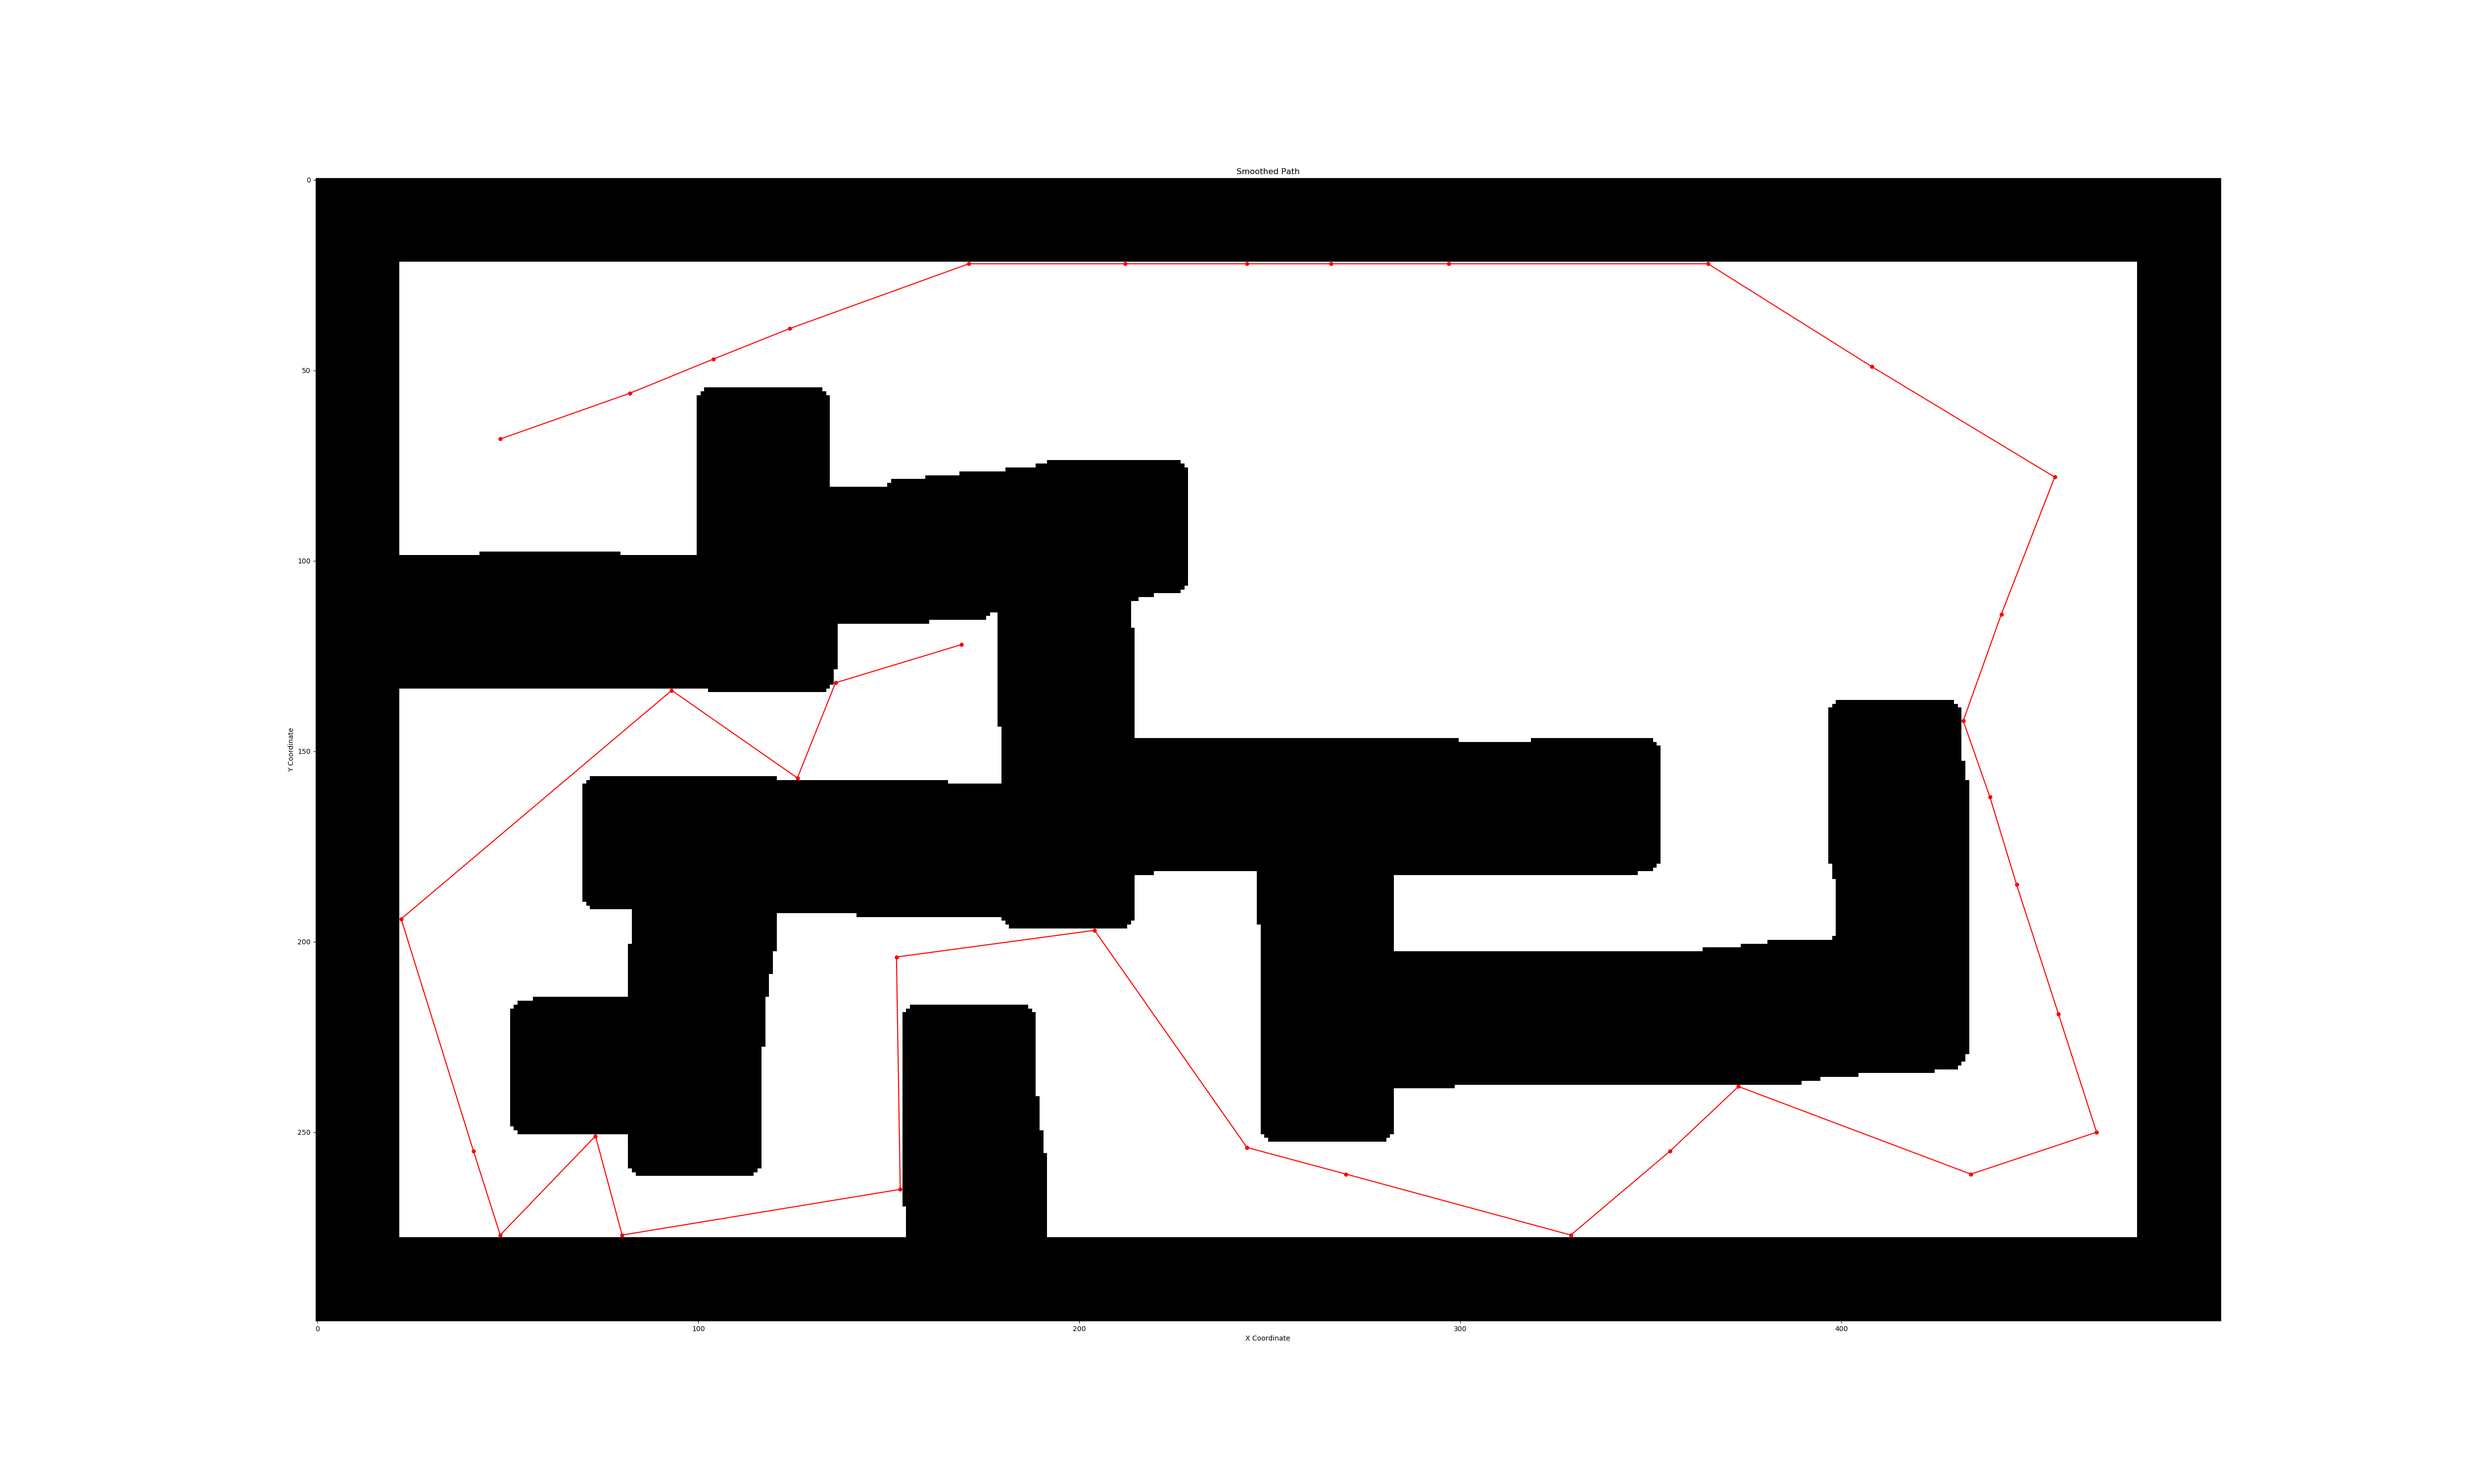
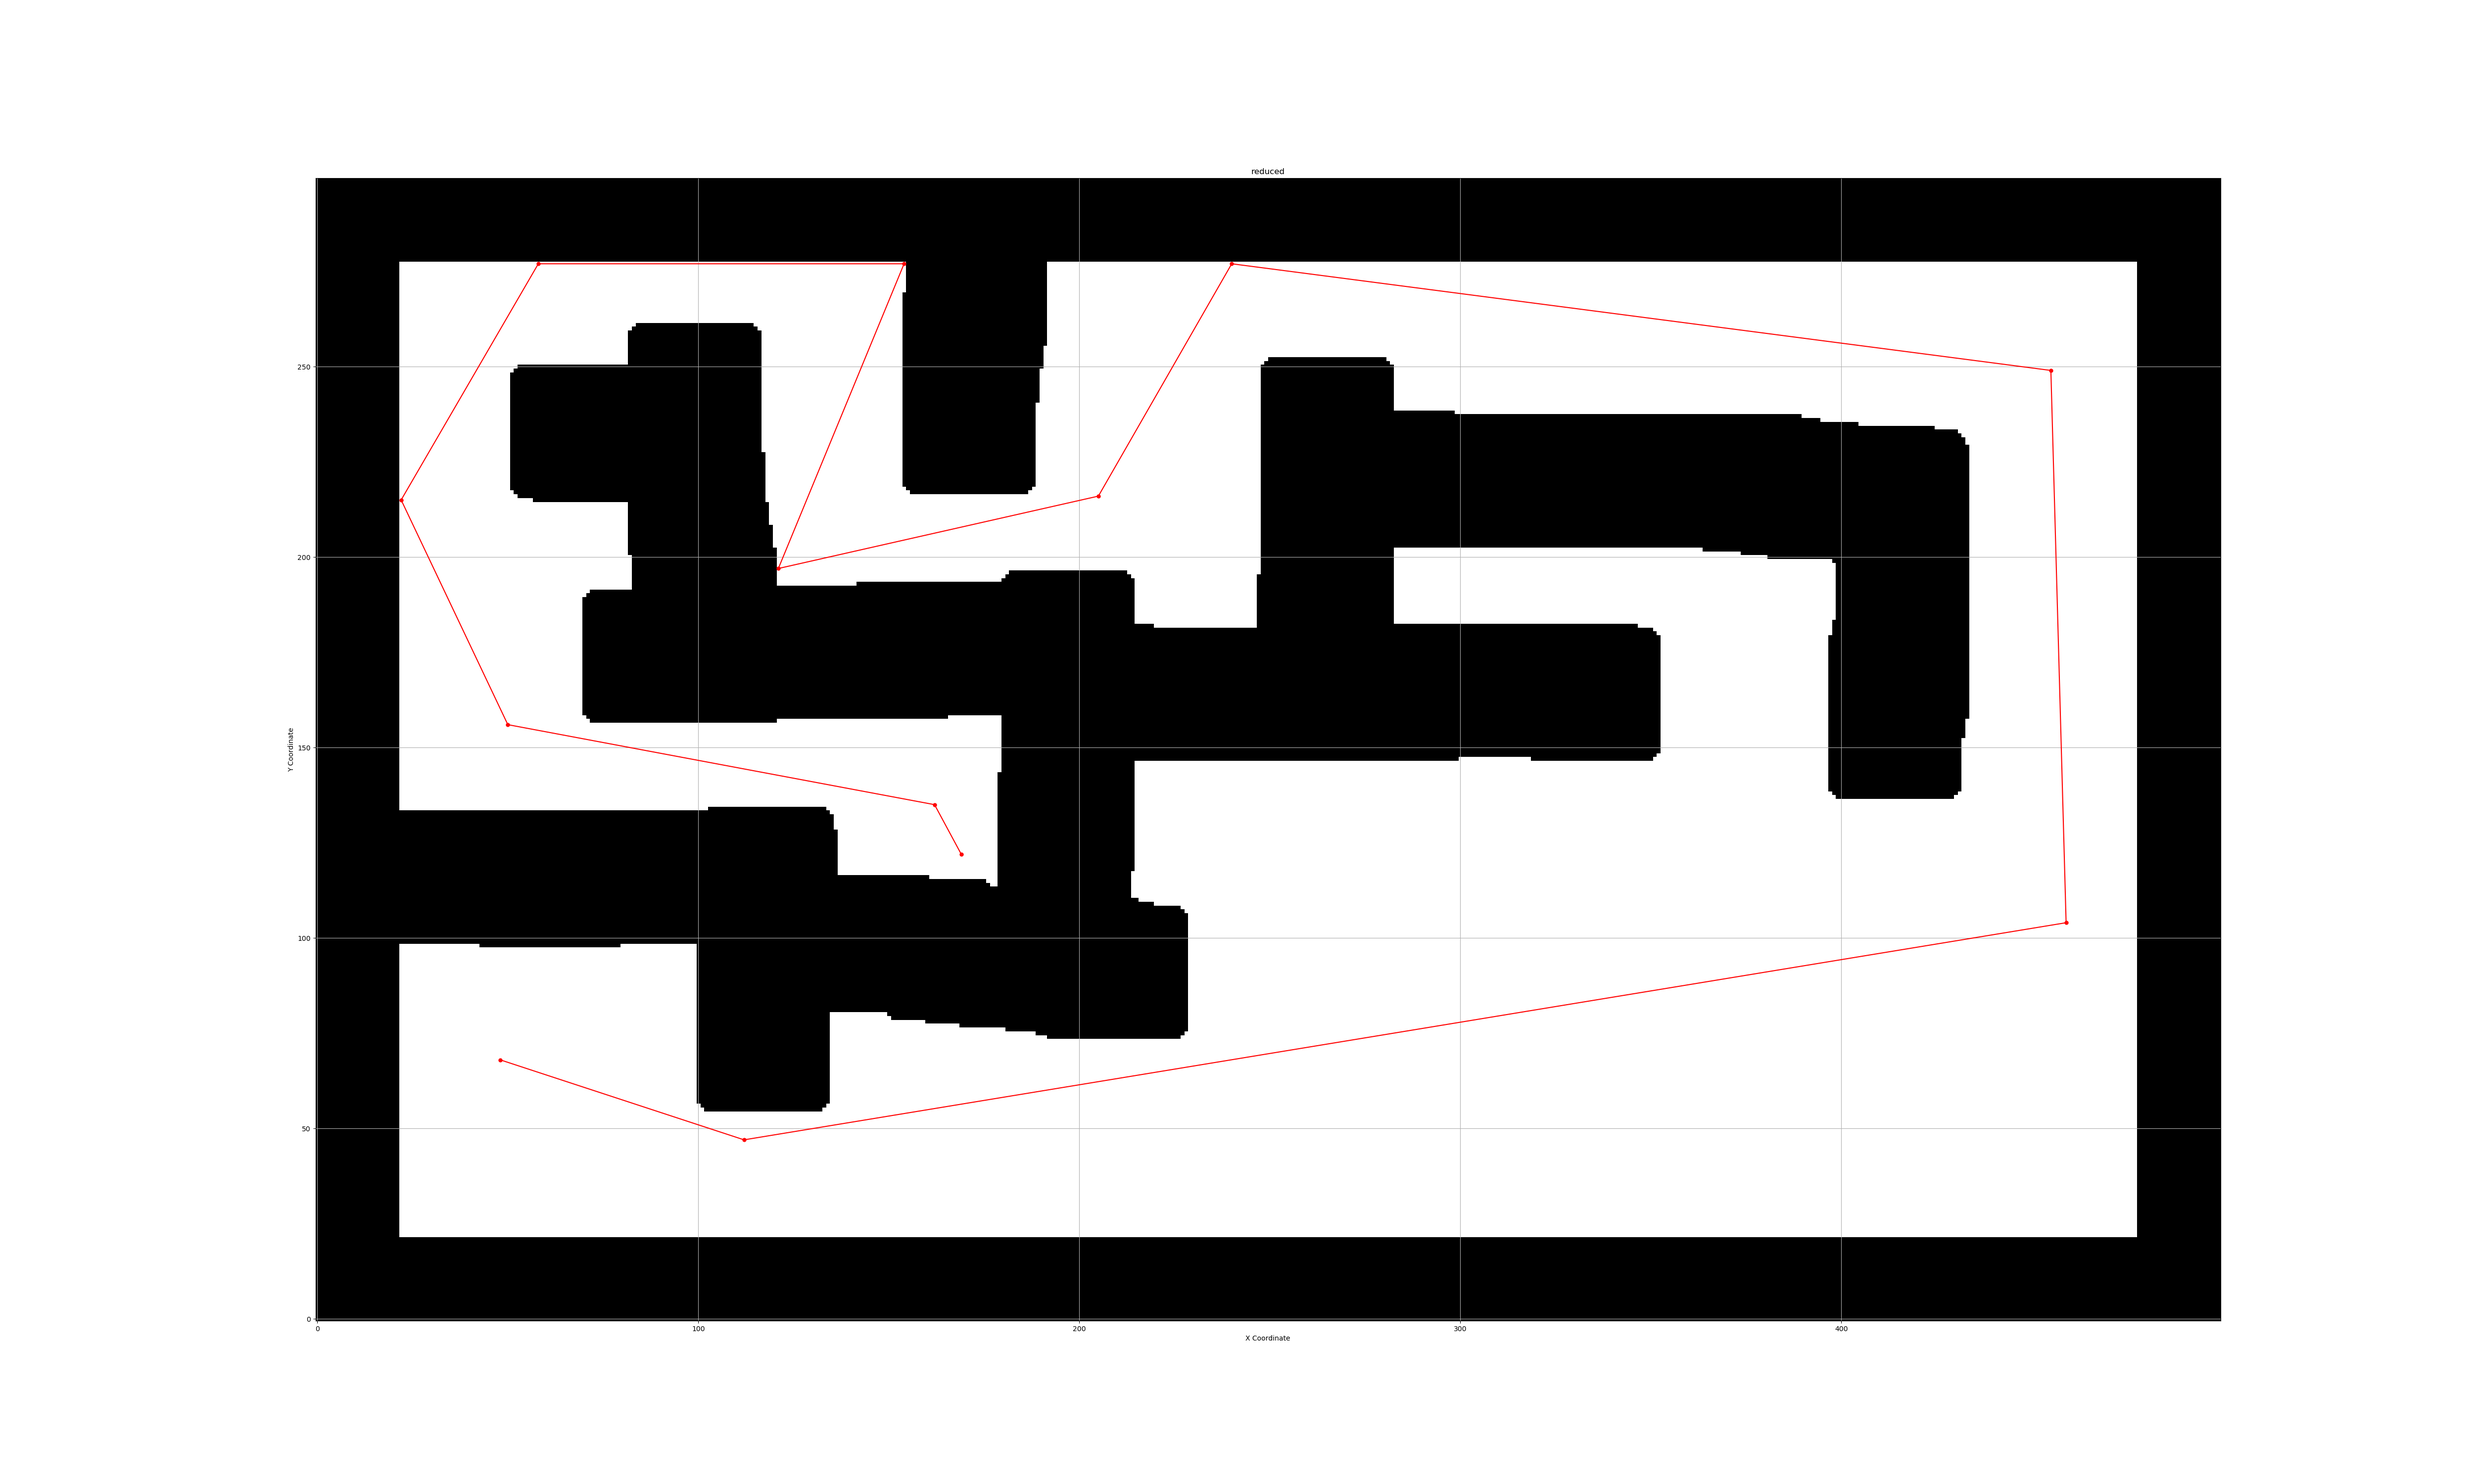
Fixed to work offline + added results

Changed region(s): [[0.156, 0.155, 0.8112, 0.837]]

diff --git a/src/graph_based/ray_caster.py b/src/graph_based/ray_caster.py
@@ -40,7 +40,7 @@ target_pos     = [0,0]
 robot_pos      = [0,0]
 visited_robot  = np.empty(0,dtype=object)
 visited_target = np.empty(0,dtype=object)
-
+coverage = 0
 
 
 grid         = np.zeros(grid_size)
@@ -312,7 +312,7 @@ def split_edge(graph,new_node,x,y):
 # Ray casting from parent node and create childs and directed edges
 def ray_casting_robot(x,y,parent):
 
-    global path_found, visited_robot, robot_graph, grid, grid_edge_id, target_graph
+    global path_found, visited_robot, robot_graph, grid, grid_edge_id, target_graph,coverage
     child_id = 1
     edge_name = ""
 
@@ -342,7 +342,7 @@ def ray_casting_robot(x,y,parent):
         # Propagates ray until 1. Ray hits wall 2. Ray hits another ray 3. Robot Ray and Goal ray are connected (path found)
         while not stop_beam and not path_found:
             dis += 1
-
+            coverage += 1
             beam_x = int(math.ceil(x + dis * np.cos(angle_rad)))
             beam_y = int(math.ceil(y + dis * np.sin(angle_rad)))
 
@@ -437,7 +437,7 @@ def ray_casting_robot(x,y,parent):
 # Ray casting from parent node and create childs and directed edges
 def ray_casting_target(x,y,parent):
 
-    global path_found, visited_target, target_graph, grid, grid_edge_id, robot_graph
+    global path_found, visited_target, target_graph, grid, grid_edge_id, robot_graph,coverage
 
 
     child_id = 1
@@ -470,7 +470,7 @@ def ray_casting_target(x,y,parent):
         # Propagates ray until 1. Ray hits wall 2. Ray hits another ray 3. Robot Ray and Goal ray are connected (path found)
         while not stop_beam and not path_found:
             dis += 1
-
+            coverage += 1
             beam_x = int(math.ceil(x + dis * np.cos(angle_rad)))
             beam_y = int(math.ceil(y + dis * np.sin(angle_rad)))
 
@@ -627,9 +627,23 @@ def reduce_path_with_LoS(path):
     reduced_path.append(list(path[-1]))
     return reduced_path
 
+
+
+'''
+@ Name calculate_path_distance: Finds the distance traveled at the produced path
+
+'''
+def calculate_path_distance(path):
+    print(path)
+    distance = 0 
+    for p in range(len(path)-1):
+        distance += math.sqrt((path[p][0]-path[p+1][0])**2 +(path[p][1]-path[p+1][1])**2) 
+    return distance
+
+
 '''
 --------------------------------------------------------------------------------------------
-                                            MAIN
+                                            ONLINE MAIN
 --------------------------------------------------------------------------------------------
 
 '''
@@ -785,9 +799,15 @@ def online_experiments_main():
 
 
 
+'''
+--------------------------------------------------------------------------------------------
+                                            OFFLINE MAIN
+--------------------------------------------------------------------------------------------
+
+'''
 
 def offline_experiments_main():
-    global grid, grid_resolution, grid_size, workspace_size, robot_size, wall_size, robot_pos, target_pos, robot_graph, target_graph, grid_edge_id, visited_robot, visited_target, path_found
+    global grid, grid_resolution, grid_size, workspace_size, robot_size, wall_size, robot_pos, target_pos, robot_graph, target_graph, grid_edge_id, visited_robot, visited_target, path_found, coverage
     
 
     print("Running offline experiments")
@@ -889,13 +909,31 @@ def offline_experiments_main():
         # Find the shortest path (Node points) from robot and target to intersection then combine them and plot them
         path = find_shortest_path(robot_graph,target_graph)
 
+        reduced_path = reduce_path_with_LoS(path)
 
         end_time = time.time()
         elapsed_time = end_time - start_time
         print("Elapsed Time = ",elapsed_time," (s)")
 
 
-        # --------------------- PLOTTING STAFF
+
+
+
+        # --------------------- SAVING STAFF --------------------
+        #----------------------------------------------------------
+        # Calculate traveled distance
+        distance = calculate_path_distance(reduced_path)
+        path_in_meters =[[element * grid_resolution for element in row] for row in reduced_path]
+    
+        np.savetxt("./Solutions/RayCaster_solution/"+ x +"_path.txt", path_in_meters, delimiter=",")
+        solution = { 'duration' : elapsed_time, 'distance': distance,  'coverage' : coverage}
+    
+        with open("./Solutions/RayCaster_solution/"+ x + ".json", 'w') as convert_file:
+            convert_file.write(json.dumps(solution))
+
+        
+
+        # --------------------- PLOTTING STAFF --------------------
         #----------------------------------------------------------
     
         # PLOT PATH WITH STRAIGHT LINES
@@ -920,7 +958,6 @@ def offline_experiments_main():
         plt.show(block = False)
 
 
-        reduced_path = reduce_path_with_LoS(path)
 
 
 
@@ -941,9 +978,10 @@ def offline_experiments_main():
         # Plot the grid
         plt.plot(reduced_path[:, 0], reduced_path[:, 1], marker='o', color='red', markersize=5)  # Adjust color and marker size as needed
         plt.show(block = False)
+        fig3.savefig('./Solutions/RayCaster_solution/'+ x + '.png')
 
         input("Press something to Exit")
-
+        plt.close()
 
        
 if __name__ == "__main__":
